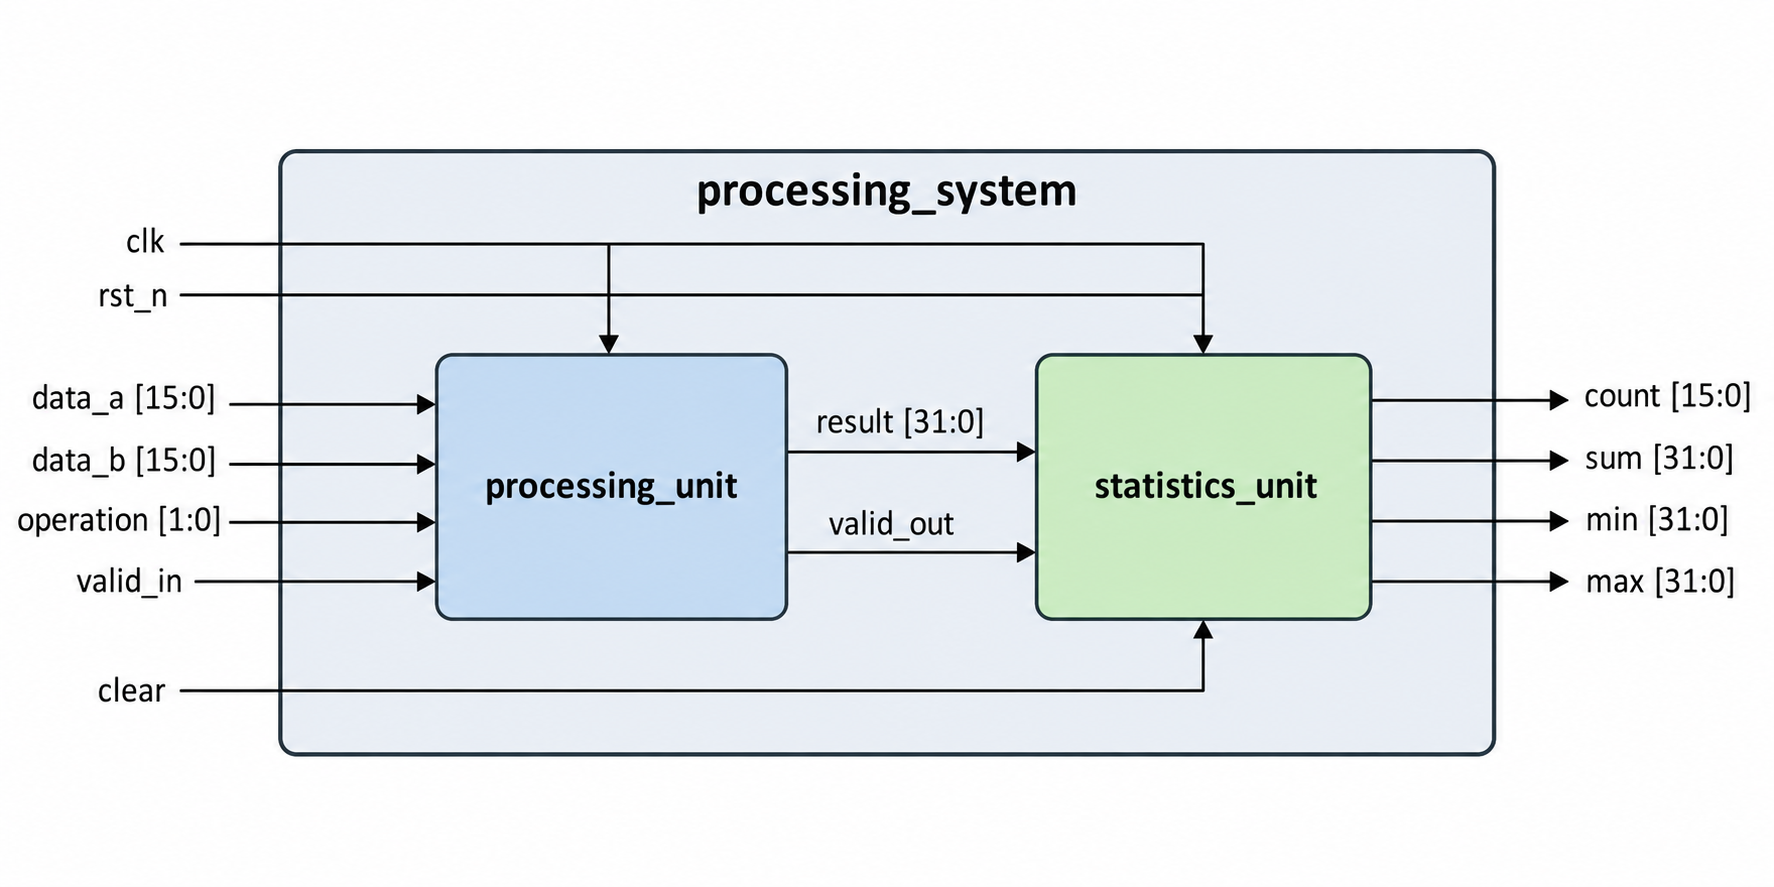
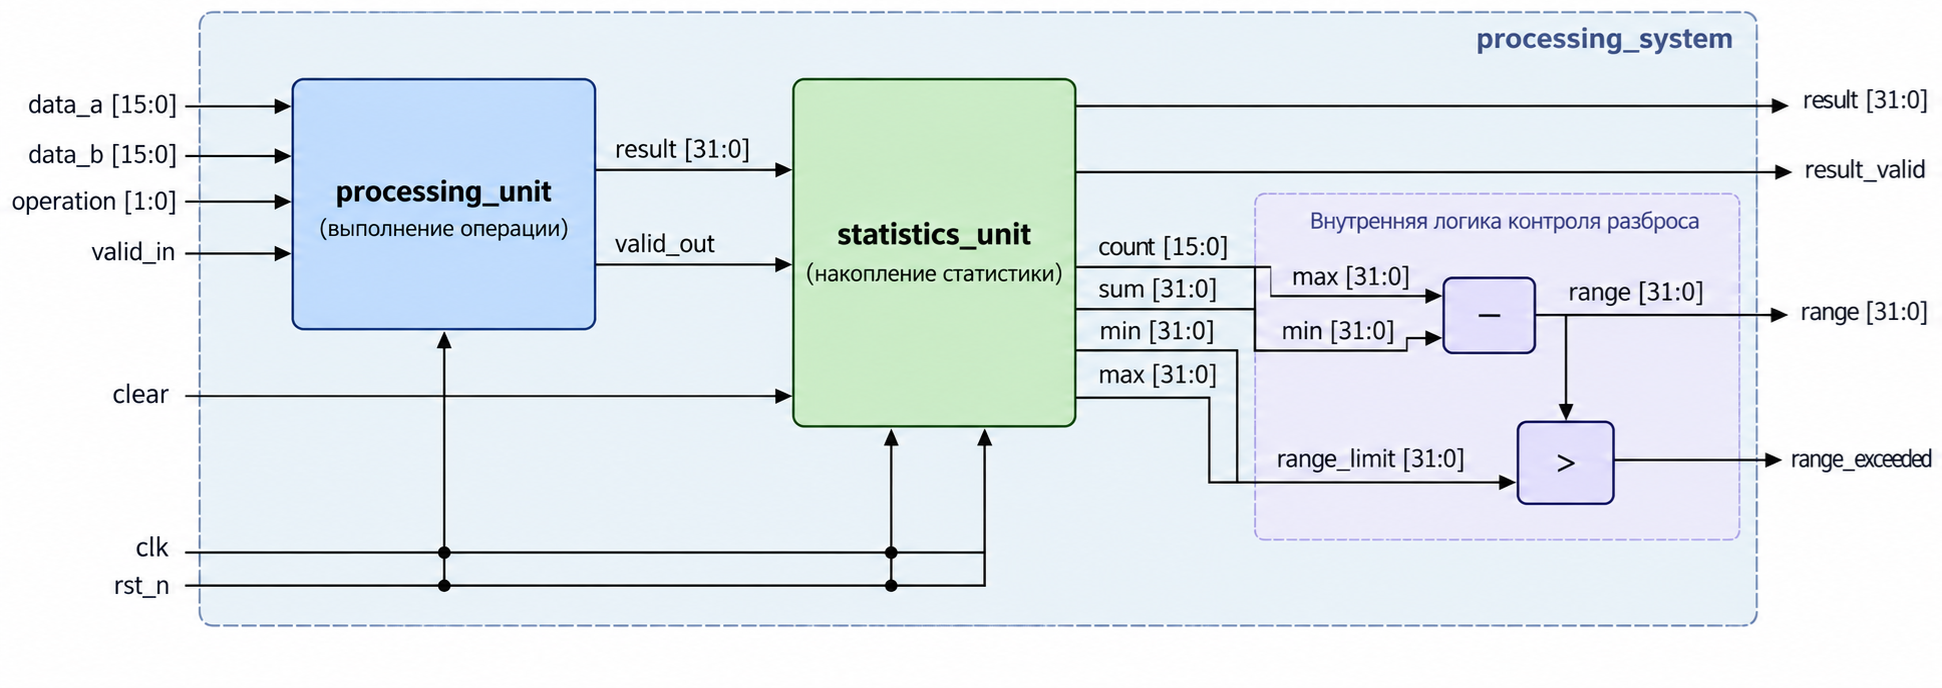
up

diff --git a/lab1/README.md b/lab1/README.md
@@ -12,20 +12,25 @@
 
 # Задание
 
-Необходимо разработать цифровую систему обработки данных `processing_system`, состоящую из двух функциональных блоков:
+Необходимо разработать цифровую систему обработки данных `processing_system`, включающую два функциональных блока:
 
 * `processing_unit` — блок арифметической и логической обработки данных;
 * `statistics_unit` — блок накопления статистики по результатам вычислений.
 
 Каждый функциональный блок необходимо разработать и проверить отдельно. После проверки отдельных блоков они должны быть объединены в модуле верхнего уровня `processing_system` и проверены совместно.
 
-Общая структура проектируемой системы представлена на рисунке ниже.
+Модуль верхнего уровня `processing_system` должен не только объединять разработанные блоки, но и выполнять дополнительную обработку накопленной статистики. На основе минимального и максимального значений система должна определять разброс полученных результатов и сравнивать его с заданным порогом.
 
-![Структурная схема processing\_system](doc/images/processing_system.png)
+<!-- Общая структура проектируемой системы представлена на рисунке ниже.
 
-Блок `processing_unit` принимает входные операнды и код выполняемой операции. Результат вычисления передаётся в `statistics_unit`, который накапливает статистическую информацию по последовательности полученных результатов.
+![Структурная схема processing\_system](doc/images/processing_system.png) -->
+
+Блок `processing_unit` принимает входные операнды и код выполняемой операции. Полученный результат передаётся в `statistics_unit`, который накапливает статистическую информацию по последовательности результатов. Накопленные статистические данные используются модулем верхнего уровня для формирования выходных признаков системы.
 
 Все данные в рамках задания рассматриваются как беззнаковые целые числа, если явно не указано обратное.
+
+---
+
 
 ---
 
@@ -127,7 +132,7 @@ result    = 32'hFFFF_FFFE
 
 Интерфейс блока должен соответствовать следующему описанию:
 
-```systemverilog
+```systemverilog id="statistics-unit-interface"
 module statistics_unit (
     input  logic        clk,
     input  logic        rst_n,
@@ -166,7 +171,7 @@ module statistics_unit (
 * `min` обновляется, если принятое значение меньше текущего минимального значения;
 * `max` обновляется, если принятое значение больше текущего максимального значения.
 
-Первое значение, принятое после сброса или очистки статистики, должно одновременно устанавливать `min` и `max`.
+Первое значение, принятое после сброса или очистки статистики, должно одновременно устанавливать `min` и `max`. До приёма первого значения после сброса или очистки значения `min` и `max` не являются значимыми.
 
 При `valid_in = 0` значение `data_in` не учитывается, а накопленная статистика не изменяется.
 
@@ -175,3 +180,110 @@ module statistics_unit (
 Сигнал `clear` имеет приоритет над `valid_in`. Если `clear = 1` и `valid_in = 1` одновременно, накопленная статистика очищается, а значение `data_in` на данном такте не учитывается.
 
 Сигнал `rst_n` является синхронным сигналом сброса с активным уровнем `0`. При `rst_n = 0` по положительному фронту `clk` накопленная статистика должна быть сброшена. После снятия сброса следующее принятое значение считается первым значением новой последовательности.
+
+При переполнении count или sum соответствующий выход должен принимать максимально возможное для своей разрядности значение: 16'hFFFF для count и 32'hFFFF_FFFF для sum. После достижения максимального значения соответствующий выход должен сохранять это значение до очистки статистики сигналом clear или сброса сигналом rst_n.
+
+
+---
+
+## Модуль верхнего уровня `processing_system`
+
+### Назначение
+
+Модуль `processing_system` предназначен для объединения блоков `processing_unit` и `statistics_unit` в единую систему обработки данных.
+
+Результаты вычислений блока `processing_unit` передаются в `statistics_unit` для накопления статистики. На основе накопленных минимального и максимального значений модуль верхнего уровня дополнительно определяет разброс результатов и формирует признак превышения заданного порогового значения.
+
+### Интерфейс
+
+Интерфейс модуля должен соответствовать следующему описанию:
+
+```systemverilog id="processing-system-interface"
+module processing_system (
+    input  logic        clk,
+    input  logic        rst_n,
+
+    input  logic        valid_in,
+    input  logic [15:0] data_a,
+    input  logic [15:0] data_b,
+    input  logic [1:0]  operation,
+
+    input  logic        clear,
+    input  logic [31:0] range_limit,
+
+    output logic        result_valid,
+    output logic [31:0] result,
+
+    output logic [15:0] count,
+    output logic [31:0] sum,
+    output logic [31:0] min,
+    output logic [31:0] max,
+
+    output logic [31:0] range,
+    output logic        range_exceeded
+);
+```
+
+| Сигнал           | Направление | Разрядность | Назначение                                   |
+| ---------------- | :---------: | ----------: | -------------------------------------------- |
+| `clk`            |    input    |           1 | Тактовый сигнал                              |
+| `rst_n`          |    input    |           1 | Сигнал сброса, активный уровень — `0`        |
+| `valid_in`       |    input    |           1 | Признак наличия корректной входной операции  |
+| `data_a`         |    input    |          16 | Первый операнд                               |
+| `data_b`         |    input    |          16 | Второй операнд                               |
+| `operation`      |    input    |           2 | Код выполняемой операции                     |
+| `clear`          |    input    |           1 | Очистка накопленной статистики               |
+| `range_limit`    |    input    |          32 | Пороговое значение допустимого разброса      |
+| `result_valid`   |    output   |           1 | Признак наличия корректного результата       |
+| `result`         |    output   |          32 | Результат выполнения операции                |
+| `count`          |    output   |          16 | Количество результатов, учтённых статистикой |
+| `sum`            |    output   |          32 | Сумма результатов                            |
+| `min`            |    output   |          32 | Минимальный результат                        |
+| `max`            |    output   |          32 | Максимальный результат                       |
+| `range`          |    output   |          32 | Разброс накопленных результатов              |
+| `range_exceeded` |    output   |           1 | Признак превышения допустимого разброса      |
+
+### Функциональное поведение
+
+Модуль `processing_system` должен содержать по одному экземпляру блоков `processing_unit` и `statistics_unit`.
+
+Выход `result` блока `processing_unit` должен быть подключён ко входу `data_in` блока `statistics_unit`, а сигнал `valid_out` — ко входу `valid_in`. Таким образом, в статистике учитываются только корректные результаты вычислений.
+
+Сигналы `result` и `result_valid` модуля верхнего уровня должны соответствовать выходным сигналам `result` и `valid_out` блока `processing_unit`. Значения `count`, `sum`, `min` и `max` должны соответствовать выходам блока `statistics_unit`.
+
+На основе накопленной статистики модуль должен формировать значение `range`, равное разности максимального и минимального значений:
+
+`range = max - min`
+
+Если статистика содержит хотя бы одно принятое значение, сигнал `range_exceeded` должен принимать значение `1`, когда `range` превышает заданное значение `range_limit`. В остальных случаях `range_exceeded` должен быть равен `0`.
+
+До приёма первого значения после сброса или очистки статистики выход `range` должен быть равен `0`, а `range_exceeded` — `0`.
+
+Структурная схема модуля `processing_system` представлена на рисунке ниже.
+
+![Структурная схема processing\_system](doc/images/processing_system_top.png)
+
+
+---
+
+## Требования к функциональной верификации
+
+Для каждого разработанного модуля необходимо создать отдельное тестовое окружение (testbench):
+
+* `processing_unit_tb` — для проверки блока `processing_unit`;
+* `statistics_unit_tb` — для проверки блока `statistics_unit`;
+* `processing_system_tb` — для проверки системы в целом.
+
+Тестовые окружения должны автоматически проверять корректность работы соответствующих модулей. Проверка только по временным диаграммам не является достаточной.
+
+Для блока `processing_unit` необходимо проверить выполнение всех поддерживаемых операций, работу сигналов `valid_in` и `valid_out`, обработку последовательных операций без пауз, граничные значения входных данных и работу сброса.
+
+Для блока `statistics_unit` необходимо проверить корректность вычисления `count`, `sum`, `min` и `max`, обработку первого входного значения, работу при `valid_in = 0`, очистку статистики сигналом `clear`, насыщение `count` и `sum` при переполнении и работу сброса.
+
+Для модуля `processing_system` необходимо проверить совместную работу функциональных блоков, передачу результатов из `processing_unit` в `statistics_unit`, корректность накопленной статистики, вычисление `range` и формирование сигнала `range_exceeded` при различных значениях `range_limit`.
+
+Тестирование должно включать как отдельные входные воздействия, так и последовательности операций, поступающих в соседних тактах.
+
+При обнаружении несоответствия ожидаемому поведению testbench должен явно сообщать об ошибке. Успешное завершение моделирования должно позволять однозначно определить, что все предусмотренные проверки пройдены.
+
+Временные диаграммы следует использовать для анализа поведения сигналов и отладки обнаруженных ошибок.
